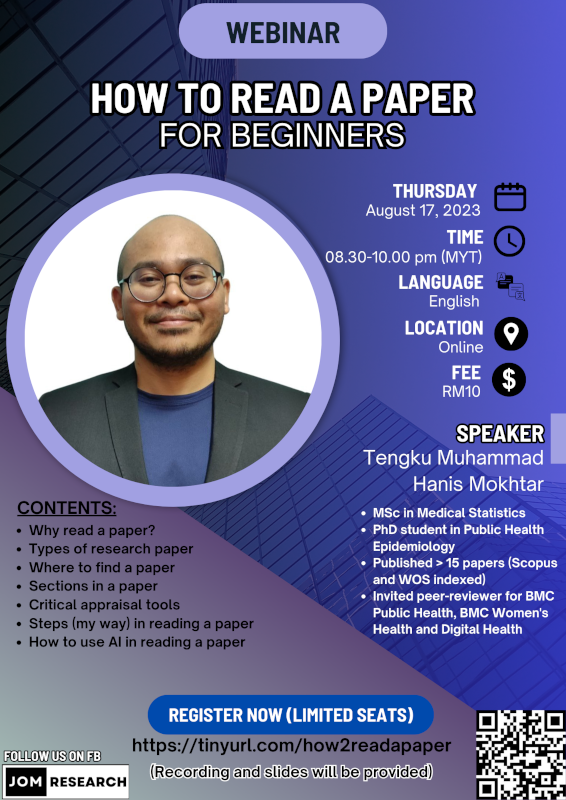
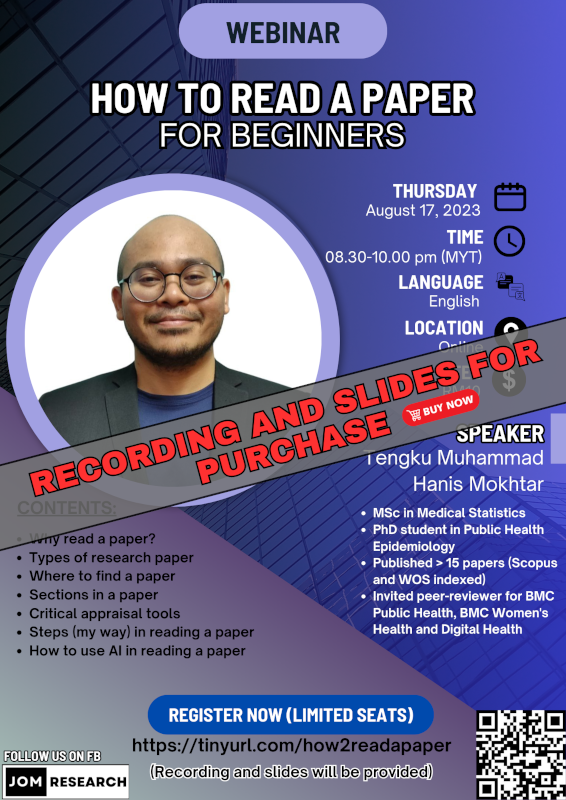
edit poster past webinars

Changed region(s): [[0.0, 0.375, 1.0, 0.8438]]

diff --git a/public/webinar_detail/2023-09-10-how-to-conduct-a-systematic-review/index.html b/public/webinar_detail/2023-09-10-how-to-conduct-a-systematic-review/index.html
@@ -14,17 +14,17 @@
 
 <meta name="author" content="Jom Research">
 <meta name="description" content="The recording and slides of this webinar is available for purchase:
- Title: How to conduct a systematic review Language: English Fee: RM80 (recording, slides, and e-certificate will be provided) Content: Refer to poster below Click to buy  Go to webinars">
+ Title: How to conduct a systematic review Language: English Price: RM80 (recording, slides, and e-certificate will be provided) Content:  What is a systematic review Type of review papers Step by step of conducting a systematic review:  Developing a review protocol Protocol registration Search terms Search strategies Screening strategies Critical appraisal tools   Writing a systematic review paper:  PRISMA and other guidelines Result presentation Example of not a good systematic review     Click to buy  Go to webinars">
 <meta name="keywords" content="">
 
 <meta name="twitter:card" content="summary"/>
 <meta name="twitter:title" content="How to conduct a systematic review"/>
 <meta name="twitter:description" content="The recording and slides of this webinar is available for purchase:
- Title: How to conduct a systematic review Language: English Fee: RM80 (recording, slides, and e-certificate will be provided) Content: Refer to poster below Click to buy  Go to webinars"/>
+ Title: How to conduct a systematic review Language: English Price: RM80 (recording, slides, and e-certificate will be provided) Content:  What is a systematic review Type of review papers Step by step of conducting a systematic review:  Developing a review protocol Protocol registration Search terms Search strategies Screening strategies Critical appraisal tools   Writing a systematic review paper:  PRISMA and other guidelines Result presentation Example of not a good systematic review     Click to buy  Go to webinars"/>
 
 <meta property="og:title" content="How to conduct a systematic review" />
 <meta property="og:description" content="The recording and slides of this webinar is available for purchase:
- Title: How to conduct a systematic review Language: English Fee: RM80 (recording, slides, and e-certificate will be provided) Content: Refer to poster below Click to buy  Go to webinars" />
+ Title: How to conduct a systematic review Language: English Price: RM80 (recording, slides, and e-certificate will be provided) Content:  What is a systematic review Type of review papers Step by step of conducting a systematic review:  Developing a review protocol Protocol registration Search terms Search strategies Screening strategies Critical appraisal tools   Writing a systematic review paper:  PRISMA and other guidelines Result presentation Example of not a good systematic review     Click to buy  Go to webinars" />
 <meta property="og:type" content="article" />
 <meta property="og:url" content="https://jomresearch.netlify.app/webinar_detail/2023-09-10-how-to-conduct-a-systematic-review/" /><meta property="article:section" content="webinar_detail" />
 <meta property="article:published_time" content="2023-09-10T00:00:00+00:00" />
@@ -158,11 +158,33 @@
 <ul>
 <li>Title: How to conduct a systematic review</li>
 <li>Language: English</li>
-<li>Fee: RM80 (recording, slides, and e-certificate will be provided)</li>
-<li>Content: Refer to poster below</li>
+<li>Price: RM80 (recording, slides, and e-certificate will be provided)</li>
+<li>Content:
+<ul>
+<li>What is a systematic review</li>
+<li>Type of review papers</li>
+<li>Step by step of conducting a systematic review:
+<ul>
+<li>Developing a review protocol</li>
+<li>Protocol registration</li>
+<li>Search terms</li>
+<li>Search strategies</li>
+<li>Screening strategies</li>
+<li>Critical appraisal tools</li>
+</ul>
+</li>
+<li>Writing a systematic review paper:
+<ul>
+<li>PRISMA and other guidelines</li>
+<li>Result presentation</li>
+<li>Example of not a good systematic review</li>
+</ul>
+</li>
+</ul>
+</li>
 <li><a href="https://forms.gle/uN6aWTCwnBPzktEM7"  class="external-link" target="_blank" rel="noopener">Click to buy</a></li>
 </ul>
-<p><img src="images/Recording_SR_webinar40percent.jpg" alt=""></p>
+<p><img src="images/poster.png" alt=""></p>
 <p><a href="https://jomresearch.netlify.app/webinars/"  class="external-link" target="_blank" rel="noopener">Go to webinars</a></p>
 
   </article>

diff --git a/public/webinar_detail/2023-09-07-how-to-write-a-scientific-paper-for-beginners-for-health-sciences/index.html b/public/webinar_detail/2023-09-07-how-to-write-a-scientific-paper-for-beginners-for-health-sciences/index.html
@@ -14,17 +14,17 @@
 
 <meta name="author" content="Jom Research">
 <meta name="description" content="The recording and slides of this webinar is available for purchase:
- Title: How to write a scientific paper for beginners (for health sciences) Price: RM30 Content: Refer to poster below Click here to buy  Go to past webinars">
+ Title: How to write a scientific paper for beginners (for health sciences) Language: English Price: RM30 Content:  Why write a paper? Types of a scientific paper General flow of a scientific paper Write-up plan/protocol Anatomy of a scientific paper Flow of writing (my own) Extra tips for a write-up Reference manager - Mendeley/Zotero Use of AI in a write-up (my opinion)   Click here to buy  Go to past webinars">
 <meta name="keywords" content="">
 
 <meta name="twitter:card" content="summary"/>
 <meta name="twitter:title" content="How to write a scientific paper for beginners (for health sciences)"/>
 <meta name="twitter:description" content="The recording and slides of this webinar is available for purchase:
- Title: How to write a scientific paper for beginners (for health sciences) Price: RM30 Content: Refer to poster below Click here to buy  Go to past webinars"/>
+ Title: How to write a scientific paper for beginners (for health sciences) Language: English Price: RM30 Content:  Why write a paper? Types of a scientific paper General flow of a scientific paper Write-up plan/protocol Anatomy of a scientific paper Flow of writing (my own) Extra tips for a write-up Reference manager - Mendeley/Zotero Use of AI in a write-up (my opinion)   Click here to buy  Go to past webinars"/>
 
 <meta property="og:title" content="How to write a scientific paper for beginners (for health sciences)" />
 <meta property="og:description" content="The recording and slides of this webinar is available for purchase:
- Title: How to write a scientific paper for beginners (for health sciences) Price: RM30 Content: Refer to poster below Click here to buy  Go to past webinars" />
+ Title: How to write a scientific paper for beginners (for health sciences) Language: English Price: RM30 Content:  Why write a paper? Types of a scientific paper General flow of a scientific paper Write-up plan/protocol Anatomy of a scientific paper Flow of writing (my own) Extra tips for a write-up Reference manager - Mendeley/Zotero Use of AI in a write-up (my opinion)   Click here to buy  Go to past webinars" />
 <meta property="og:type" content="article" />
 <meta property="og:url" content="https://jomresearch.netlify.app/webinar_detail/2023-09-07-how-to-write-a-scientific-paper-for-beginners-for-health-sciences/" /><meta property="article:section" content="webinar_detail" />
 <meta property="article:published_time" content="2023-09-07T00:00:00+00:00" />
@@ -157,11 +157,24 @@
     <p>The recording and slides of this webinar is available for purchase:</p>
 <ul>
 <li>Title: How to write a scientific paper for beginners (for health sciences)</li>
+<li>Language: English</li>
 <li>Price: RM30</li>
-<li>Content: Refer to poster below</li>
+<li>Content:
+<ul>
+<li>Why write a paper?</li>
+<li>Types of a scientific paper</li>
+<li>General flow of a scientific paper</li>
+<li>Write-up plan/protocol</li>
+<li>Anatomy of a scientific paper</li>
+<li>Flow of writing (my own)</li>
+<li>Extra tips for a write-up</li>
+<li>Reference manager - Mendeley/Zotero</li>
+<li>Use of AI in a write-up (my opinion)</li>
+</ul>
+</li>
 <li><a href="https://docs.google.com/forms/d/e/1FAIpQLSeEaEa0n3SLl_s9JX8oNjL96QSrik58CP5uao5DViDiIhSF2Q/viewform"  class="external-link" target="_blank" rel="noopener">Click here to buy</a></li>
 </ul>
-<p><img src="images/poster.jpg" alt=""></p>
+<p><img src="images/poster.png" alt=""></p>
 <p><a href="https://jomresearch.netlify.app/webinars/#past-webinars"  class="external-link" target="_blank" rel="noopener">Go to past webinars</a></p>
 
   </article>

diff --git a/public/webinar_detail/2023-09-07-how-to-publish-a-paper-for-beginners-and-newbies-for-health-sciences/index.html b/public/webinar_detail/2023-09-07-how-to-publish-a-paper-for-beginners-and-newbies-for-health-sciences/index.html
@@ -14,17 +14,17 @@
 
 <meta name="author" content="Jom Research">
 <meta name="description" content="The recording and slides of this webinar is available for purchase:
- Title: How to publish a paper for beginners and newbies (for health sciences) Price: RM10 Content: Refer to poster below Click here to buy  Go to past webinars">
+ Title: How to publish a paper for beginners and newbies (for health sciences) Language: English Price: RM10 Content:  Why publish a paper? Indexing databases? Publishers vs journals Predatory publishers and journals How to find a journal? Open access vs closed access Peer review Cover letter Reviewer suggestion   Click here to buy  Go to past webinars">
 <meta name="keywords" content="">
 
 <meta name="twitter:card" content="summary"/>
 <meta name="twitter:title" content="How to publish a paper for beginners and newbies (for health sciences)"/>
 <meta name="twitter:description" content="The recording and slides of this webinar is available for purchase:
- Title: How to publish a paper for beginners and newbies (for health sciences) Price: RM10 Content: Refer to poster below Click here to buy  Go to past webinars"/>
+ Title: How to publish a paper for beginners and newbies (for health sciences) Language: English Price: RM10 Content:  Why publish a paper? Indexing databases? Publishers vs journals Predatory publishers and journals How to find a journal? Open access vs closed access Peer review Cover letter Reviewer suggestion   Click here to buy  Go to past webinars"/>
 
 <meta property="og:title" content="How to publish a paper for beginners and newbies (for health sciences)" />
 <meta property="og:description" content="The recording and slides of this webinar is available for purchase:
- Title: How to publish a paper for beginners and newbies (for health sciences) Price: RM10 Content: Refer to poster below Click here to buy  Go to past webinars" />
+ Title: How to publish a paper for beginners and newbies (for health sciences) Language: English Price: RM10 Content:  Why publish a paper? Indexing databases? Publishers vs journals Predatory publishers and journals How to find a journal? Open access vs closed access Peer review Cover letter Reviewer suggestion   Click here to buy  Go to past webinars" />
 <meta property="og:type" content="article" />
 <meta property="og:url" content="https://jomresearch.netlify.app/webinar_detail/2023-09-07-how-to-publish-a-paper-for-beginners-and-newbies-for-health-sciences/" /><meta property="article:section" content="webinar_detail" />
 <meta property="article:published_time" content="2023-09-07T00:00:00+00:00" />
@@ -157,11 +157,24 @@
     <p>The recording and slides of this webinar is available for purchase:</p>
 <ul>
 <li>Title: How to publish a paper for beginners and newbies (for health sciences)</li>
+<li>Language: English</li>
 <li>Price: RM10</li>
-<li>Content: Refer to poster below</li>
+<li>Content:
+<ul>
+<li>Why publish a paper?</li>
+<li>Indexing databases?</li>
+<li>Publishers vs journals</li>
+<li>Predatory publishers and journals</li>
+<li>How to find a journal?</li>
+<li>Open access vs closed access</li>
+<li>Peer review</li>
+<li>Cover letter</li>
+<li>Reviewer suggestion</li>
+</ul>
+</li>
 <li><a href="https://docs.google.com/forms/d/e/1FAIpQLSe-Q16oiKxp1Suz1fOH8Rqebh-qZri303E3POjUlpTPfD50oA/viewform"  class="external-link" target="_blank" rel="noopener">Click here to buy</a></li>
 </ul>
-<p><img src="images/Poster.jpg" alt=""></p>
+<p><img src="images/poster.png" alt=""></p>
 <p><a href="https://jomresearch.netlify.app/webinars/#past-webinars"  class="external-link" target="_blank" rel="noopener">Go to past webinars</a></p>
 
   </article>

diff --git a/public/webinar_detail/2023-09-07-how-to-read-a-paper-for-beginners/index.html b/public/webinar_detail/2023-09-07-how-to-read-a-paper-for-beginners/index.html
@@ -14,17 +14,17 @@
 
 <meta name="author" content="Jom Research">
 <meta name="description" content="The recording and slides of this webinar is available for purchase:
- Title: How to read a paper for beginners Price: RM10 Content: Refer to poster below Click here to buy  Go to past webinars">
+ Title: How to read a paper for beginners Language: English Price: RM10 Content:  Why read a paper? Types of research paper Where to find a paper Sections in a paper Critical appraisal tools Steps (my way) in reading a paper How to use AI in reading a paper   Click here to buy  Go to past webinars">
 <meta name="keywords" content="">
 
 <meta name="twitter:card" content="summary"/>
 <meta name="twitter:title" content="How to read a paper for beginners"/>
 <meta name="twitter:description" content="The recording and slides of this webinar is available for purchase:
- Title: How to read a paper for beginners Price: RM10 Content: Refer to poster below Click here to buy  Go to past webinars"/>
+ Title: How to read a paper for beginners Language: English Price: RM10 Content:  Why read a paper? Types of research paper Where to find a paper Sections in a paper Critical appraisal tools Steps (my way) in reading a paper How to use AI in reading a paper   Click here to buy  Go to past webinars"/>
 
 <meta property="og:title" content="How to read a paper for beginners" />
 <meta property="og:description" content="The recording and slides of this webinar is available for purchase:
- Title: How to read a paper for beginners Price: RM10 Content: Refer to poster below Click here to buy  Go to past webinars" />
+ Title: How to read a paper for beginners Language: English Price: RM10 Content:  Why read a paper? Types of research paper Where to find a paper Sections in a paper Critical appraisal tools Steps (my way) in reading a paper How to use AI in reading a paper   Click here to buy  Go to past webinars" />
 <meta property="og:type" content="article" />
 <meta property="og:url" content="https://jomresearch.netlify.app/webinar_detail/2023-09-07-how-to-read-a-paper-for-beginners/" /><meta property="article:section" content="webinar_detail" />
 <meta property="article:published_time" content="2023-09-07T00:00:00+00:00" />
@@ -157,8 +157,19 @@
     <p>The recording and slides of this webinar is available for purchase:</p>
 <ul>
 <li>Title: How to read a paper for beginners</li>
+<li>Language: English</li>
 <li>Price: RM10</li>
-<li>Content: Refer to poster below</li>
+<li>Content:
+<ul>
+<li>Why read a paper?</li>
+<li>Types of research paper</li>
+<li>Where to find a paper</li>
+<li>Sections in a paper</li>
+<li>Critical appraisal tools</li>
+<li>Steps (my way) in reading a paper</li>
+<li>How to use AI in reading a paper</li>
+</ul>
+</li>
 <li><a href="https://docs.google.com/forms/d/e/1FAIpQLSeM8faF-oMyIbodmpbl7hgB3FFOKMogCQpZy3aDhouD70TIlA/viewform"  class="external-link" target="_blank" rel="noopener">Click here to buy</a></li>
 </ul>
 <p><img src="images/poster.png" alt=""></p>
